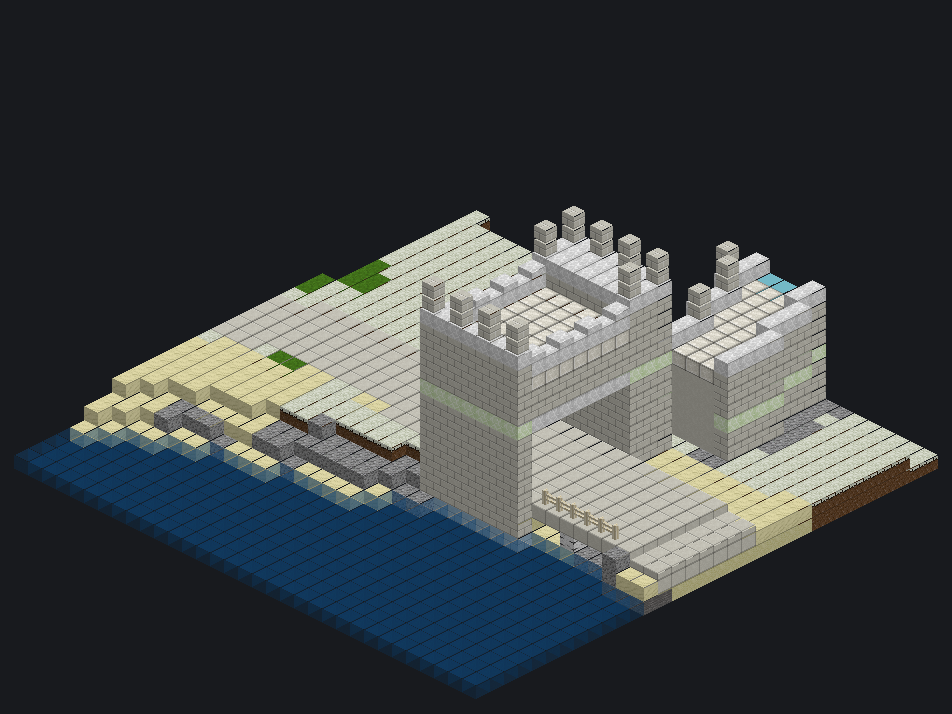
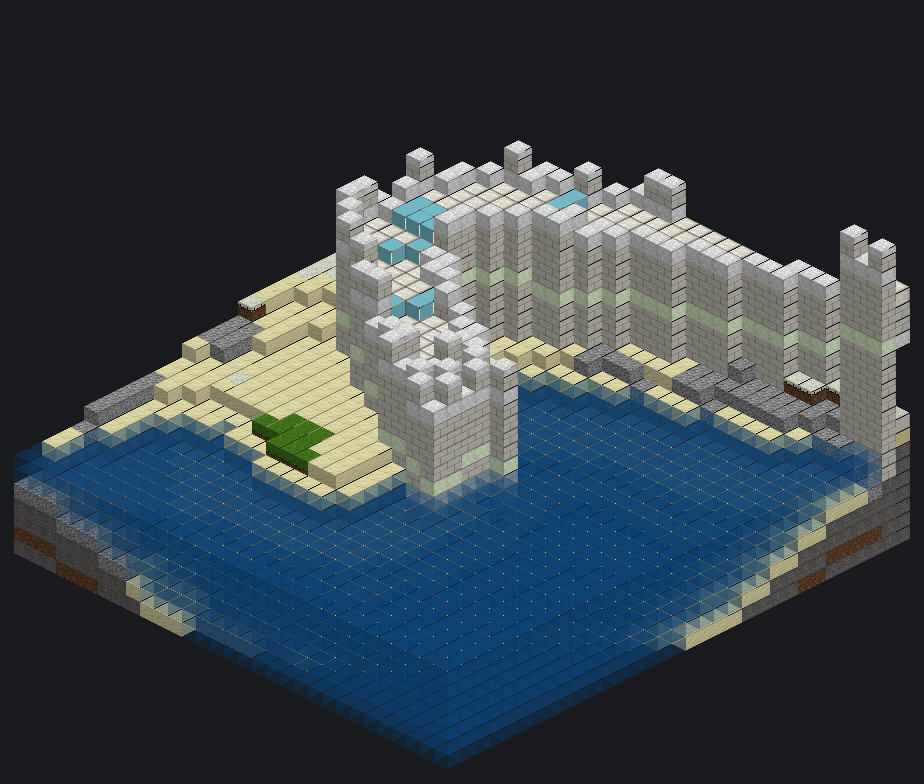
docs: capital walls playtest fix (continuous walls at the civic lakes, low elf crown): receipt, design wording, renders

diff --git a/docs/research/round23-capital-walls.md b/docs/research/round23-capital-walls.md
@@ -7,6 +7,10 @@ towns, villages and POIs are untouched. Design result:
 capitals, the lake capital, the palisade), [world_zones.md](../design/world_zones.md)
 §12 and [world.md](../design/world.md).
 
+The [playtest fix](#playtest-fix-continuous-walls-at-the-civic-lakes-low-elf-crown)
+at the end supersedes the lake termination of the follow-up and Lethariel's
+colonnettes described in the earlier sections.
+
 ## What changed
 
 | Capital | Change |
@@ -15,7 +19,7 @@ capitals, the lake capital, the palisade), [world_zones.md](../design/world_zone
 | Dur Brannoc | Precinct parapet three courses instead of two; the capped merlon every fourth column moves up one (y 4 stone, y 5 cap). |
 | Gor Drazhak | Precinct bank three courses (two of dug earth, the beaten crest at y 3) with the stake and point every other column at y 4–5. |
 | Nhal Veyr | Bar course closed (below). Height unchanged. |
-| Lethariel | Outer edge: the stone curtain model in a light elf style (below), with gatehouses and turrets. Core: the silverwood hedge becomes a one-node light wall — silver sandstone brick y 1–2, marble coping y 3 (the height of the pale gatehouses' marble band), a colonnette (pale castle pillar, base y 4 and top y 5) on every other column; the mere still replaces the boundary where it reaches the ring. |
+| Lethariel | Outer edge: the stone curtain model in a light elf style (below), with gatehouses and turrets. Core: the silverwood hedge becomes a one-node light wall — silver sandstone brick y 1–2, marble coping y 3 (the height of the pale gatehouses' marble band), a colonnette (pale castle pillar, base y 4 and top y 5) on every other column (since the playtest fix a brick at y 4 under a marble slab at y 5); the mere still replaces the boundary where it reaches the ring. |
 | Kezamba | Outer edge: the orc palisade model in the troll core palisade's materials (below), with the palisade's own gate passages. Core unchanged (byte-identical blueprint). |
 
 All six core blueprints keep their bounds (y −2..31); outside the ring
@@ -28,7 +32,8 @@ columns not one cell changed (cell diff before/after, all six cores).
   `default:silver_sandstone`, walk `darkage_marble_tile` with its slab, a green
   `darkage_serpentine` string course three under the walk, a marble coping on
   every parapet and tower top, colonnettes (`castle_pillar_silver_sandstone_brick`
-  `_bottom` + `_top`) in place of every merlon, a marble lintel over each gate
+  `_bottom` + `_top`) in place of every merlon (since the playtest fix: one
+  brick under a marble slab), a marble lintel over each gate
   passage and a serpentine band round the gate towers at lintel height, marble
   slab caps on the passage parapet, an `emberglass_lamp` on the deck of every
   turret. Slim footprint: wall 5 wide, walk 6 above ground (7 elsewhere),
@@ -208,3 +213,174 @@ the race's style. Branch `wp13-capital-walls-shore` off main `f5a545bd`.
 - Remaining wet points on these two edges (small non-lake waters: Lethariel
   7 + 8, Kezamba 4 points) keep the ordinary arcade or deck with the default
   clearance, like every other capital.
+
+## Playtest fix: continuous walls at the civic lakes, low elf crown
+
+2026-09-28, after the user's playtest on a fresh world (current main). Branch
+`wp13-capital-walls-lake-fix` off main `f712cd5d`. This section supersedes
+the lake termination of the follow-up above and the Lethariel colonnettes.
+
+### Findings and cause
+
+1. **A lone wall piece with a turret at Lethariel**, on dry city ground near
+   the lake, between the east gatehouse and the lake. Cause: the follow-up's
+   `SHORE_KEEP` margin. East of the core the outline does not cross the lake
+   once: it crosses it, runs about 50 nodes along a land tongue 1 to 7 nodes
+   from the water (seed 4242: points 367–391, shore distance 0.9–6.1, the lake
+   2–14 nodes outside it), and crosses again. Every point within 6 nodes of
+   the water lost its wall, and `SHORE_MIN_RUN` stripped dry runs under 12
+   points. Where the tongue lies a little further from the water for 12
+   points or more, as on the playtest world, that run kept its wall and got a
+   shore-end turret at both ends: a lone piece on the tongue. On seed 4242
+   two points reach 6.1 and were swallowed by the 12-point rule. Synthetic
+   outline variants (below) show the same fragment in 57 of 119 Lethariel
+   outlines and 22 of 119 Kezamba ones.
+   **Kezamba had a worse form of the same margin on seed 4242.** North of the
+   cenote the outline runs about 100 nodes along the shore (points 425–474,
+   distance 2–10), with the cenote inside and open land outside. The margin
+   and the 12-point rule stripped all of it, so the city was open over land
+   there. The only turret was an end tower on the south-gate side.
+2. **The beach between the water and a wall end or gatehouse** was the same
+   6-node margin.
+3. **The elf crown**: the pillar colonnettes (two nodes over the coping) read
+   too tall, on the towers most of all.
+
+### Fix
+
+- **Planner** (`capital_planner.lua` `M.shore_flags`, pure, unit-testable):
+  only points on the water are lake. The wall runs on land up to the water,
+  over the first 1 to `SHORE_INTO` 3 water points of each crossing, and ends
+  there. Past the first point it runs on only while the points lie within
+  `SHORE_DEEP` 3 nodes of the shore. Beside a gate the depth rule applies
+  from the first point, so a gatehouse standing in the water (D70) is its
+  own end. A dry stretch **between two crossings** carries no wall in two
+  cases: it is shorter than `SHORE_MIN_RUN` 12 points, or the land outside
+  it is closed by the lake. The second is a 4-connected fill over the dry
+  columns outside the outline, started within 3 of the stretch, that never
+  leaves the stretch's box grown by `SHORE_REACH` 32. Such land can be
+  reached only over the water or through the city. Every other dry point is
+  walled, including every stretch between a crossing and a gate. Walled
+  points within `SHORE_KEEP` 6 of the water, the water points included, get
+  the new payload flag `f` (footing). No turret stands within 6 points of the
+  water, and the end turrets are gone.
+- **Writer** (`city_edge.lua`): an `f` segment is solid down to the bed,
+  never an arcade. Stone uses face and core masonry; the palisade uses stakes
+  under the whole rampart where the column is in water. The wall ends in a
+  **head** of 1.5 nodes on either side of its last point, reaching 1.5 nodes
+  on toward the lake. Stone: a parapet across the walk, with coping and a
+  merlon on every other column. Palisade: the stockade with its turned
+  points. Lethariel merlons (curtain, turrets, gate towers) are now the plain
+  merlon: one silver sandstone brick under a `darkage_marble_slab`, 1.5
+  nodes over the coping instead of the two-node colonnette.
+- **Core** (`lethariel.lua`): the light wall's merlon is the same brick at
+  y 4 under a marble slab at y 5 (height and bounds unchanged).
+- The overlay y range is unchanged. The footings reach the bed of shallow
+  water only, far inside the existing 24 below the lowest walk, and the probe
+  now also checks the bottom.
+
+### Style choices made by feel
+
+- The **head** is a closed parapet in the water, not a tower. An end turret
+  (radius 3) centred on the last point would have stood 5–6 nodes into the
+  lake. Beside a gatehouse on the shore, the gatehouse and a short head read
+  as one piece.
+- **Elf crown**: the user's first example, a one-node brick merlon capped
+  with a marble slab, above the continuous marble coping. It keeps the
+  marble-on-every-top idea at 1.5 nodes. The gate passage parapet keeps its
+  marble slab caps on the coping.
+- `SHORE_DEEP` 3 over 2: the wall's centre line ends about 3.2–3.6 nodes
+  into the water on seed 4242, so a swimmer must leave the shallows to pass.
+
+### Evidence
+
+- **Probe** (`tools/wp13/capital_walls_probe.lua`, LuaJIT, extended): part 1
+  checks the Lethariel core crown. Part 2 checks, on every lake end: 1–3
+  walled water points (none only beside a gate), each with a footing, a
+  closed head, and solid masonry or stakes from the ground to the walk in the
+  middle of every walled water segment. It also checks: every dry lake point
+  lies between two crossings, never between a crossing and a gate (no dry
+  margin); no isolated wall run between two lake stretches unless it has 12+
+  dry points and its outside land escapes (an independent even-odd fill,
+  reach 48); no edge cell deeper than `SHORE_DEEP` + half + 2; no turret near
+  the water; every cell inside the overlay's y range; no pillar in
+  Lethariel's crown; and every marble slab either capping one brick over the
+  coping or on the passage parapet's coping. New `--baseline-layouts` and
+  `--baseline-edge` options compare against the previous version. Results:
+  - Final seed-4242 layouts: **PASS**. Lethariel: 170 lake points (was 201),
+    one crossing (the tongue merged into it), 4 walled water points (east 1,
+    south 3), deepest edge cell 4.0 nodes into the water, 699 marble merlon
+    caps, 0 pillars, 18 lamps for 18 turrets. Kezamba: 81 lake points (was
+    141), 5 walled water points (east 2, north 3), deepest cell 5.6 (an
+    outer stake of an oblique crossing), 0 isolated runs.
+  - Baseline (engine layouts of main `28a9a2a3` = `f712cd5d` for mapgen and
+    main's `city_edge.lua`): Highcourt, Dur Brannoc, Gor Drazhak and Nhal
+    Veyr have byte-identical layout texts and identical edge cells and names
+    (100 175 / 105 084 / 50 571 / 100 972 cells). For Lethariel and Kezamba
+    only the `w` flags and `t` differ: every other line is byte-identical,
+    and so are the wall points, walks, gate and water flags. The water and
+    road sections of the whole layouts file are byte-identical.
+  - The same probe **fails** on main's layouts (dry lake points between a
+    crossing and a gate, and Kezamba's end tower within 6 points of the
+    lake). It also fails on a mutant with the tongue's wall restored (an
+    isolated 25-point run, lake ends not walled into the water).
+- **Synthetic outlines** (scratch sweep): 119 variants per lake capital, the
+  outline scaled 0.92–1.08 about the anchor and turned −6..6°, with gate
+  points kept by index. The old rule leaves an isolated fragment in 57
+  (Lethariel) and 22 (Kezamba). Under the new rule: every lake end keeps 1–3
+  water points except where a variant pushed a gate into the water; the
+  deepest walled water point is 3.0/3.3; the remaining walled runs between
+  two lake stretches (Lethariel 1, Kezamba 21) are all 12+ dry points with
+  open land outside, i.e. real land crossings. `shore_flags` costs about
+  1 ms per capital.
+- **Engine** (`tools/luanti_headless.sh`, seed 4242, `LC_ALL=C`, `chrt --idle
+  0 ionice -c3`, a disposable dump probe, normal shutdown by
+  `core.request_shutdown` after the dumps): two runs of about 42 s each.
+  Both PASS (listening, no ERROR), layouts built in 19.5 s, capital planning
+  6.1–6.2 s for all six as before. Run 1 layouts equal the portable
+  re-derivation of the flags byte for byte in the `w` lines. Run 2 (final
+  writer) layouts equal run 1's but for the source key and timings. Engine
+  dumps: the deepest edge column in the water is 3.7 / 4.0 nodes (Lethariel
+  east / south end) and 4.5 / 5.6 (Kezamba east / north end); no edge
+  material on the Lethariel tongue. `pgrep -f '^luanti.bin'` is empty
+  afterwards. No PUC (mapgen exemption).
+- `tools/check_lua.sh` passes on every changed Lua file (parser, sweeps 1–6,
+  no SETGLOBAL).
+
+Images (engine dumps unless noted, `render_blueprint.py`; it draws
+`darkage_marble_tile_slab` as flat colour):
+`lethariel-shore-east-gate` (the east gatehouse, the wall on to the water
+and its head), `lethariel-shore-south-gate` (the wall round the inner bay
+and its head in the lake), `kezamba-shore-gate` (the east gatehouse with the
+palisade run into the cenote), `kezamba-shore-north-end` (the new north-shore
+palisade ending in the cenote), `lethariel-edge-gate` and
+`lethariel-edge-turret` (the low crown), `lethariel-core-wall` (the core's
+low crown, blueprint render). `kezamba-shore-end-tower` is removed.
+
+### Runtime test plan (fresh world)
+
+1. Lethariel, from the core looking over the crown lake toward the east
+   gatehouse (the playtest viewpoint, about 1800, 100, -1500): no wall piece
+   on the shore between the east gatehouse and the lake. From the east
+   gatehouse the wall runs to the water and 2–3 nodes into it, closed by a
+   parapet. Try to walk round its end along the beach: you have to swim.
+2. The same at the other end (by the south gatehouse): the wall reaches into
+   the lake and is closed at its end; the lake is open beyond.
+3. Kezamba: at the east gatehouse the palisade runs from the gate tower into
+   the cenote with no beach gap. On the north shore the palisade is closed
+   along the whole shore and ends in the cenote, with no gap to the land
+   outside.
+4. Lethariel crown: curtain, turrets and gate towers carry low brick merlons
+   with marble slab caps, with no tall pillars. The core's light wall has the
+   same crown. Turret lamps still stand at night.
+5. The other four capitals look exactly as before.
+
+### Open risks (Low)
+
+- On other seeds a wall run can stand between two lake crossings where it
+  closes real open land (12+ dry points whose outside reaches beyond the
+  lake); it then ends in a head at both ends. That is the rule's intent, but
+  it is a separate piece in the lake.
+- A pocket of land outside the outline that the lake closes but that is
+  more than 32 nodes deep reads as open and is walled.
+- Heads and footings are checked on synthetic ground and four engine dumps;
+  the renders cannot show the slab caps' real shape.

diff --git a/docs/design/settlements.md b/docs/design/settlements.md
@@ -192,7 +192,7 @@ same rule are:
 | Dur Brannoc | Three-course masonry parapet with a capped merlon every fourth column; the four closed corner drums replace its corner columns. |
 | Gor Drazhak | Three-course earth bank (two of dug earth, a beaten crest) with an acacia stake and point every other column; closed timber corner towers replace its corner columns. |
 | Nhal Veyr | Two-course dungeon-stone parapet with a capped merlon every fourth column and flat iron bars filling the three columns between two merlons; the four closed corner drums replace its corner columns. |
-| Lethariel | Light wall on every dry edge: two courses of silver sandstone brick, a marble coping at the height of the pale gatehouses' marble band, and a colonnette (the pale castle pillar, base and top) on every other column; the authored mere is the boundary where it reaches the north edge. |
+| Lethariel | Light wall on every dry edge: two courses of silver sandstone brick, a marble coping at the height of the pale gatehouses' marble band, and a low merlon (one brick under a marble slab) on every other column; the authored mere is the boundary where it reaches the north edge. |
 | Kezamba | Three-course junglewood palisade on every dry edge; the authored cenote is the boundary where it reaches the north-east edge. |
 
 **Streets are roads.** Since Round 22 every capital street, lane and connector
@@ -271,10 +271,18 @@ its walk rises and falls at most half a node per node (a slab on each half
 step), so it can be walked. Where the outline crosses a river the wall is an
 arcade: the walk on an arch, piers down to the bed, the river passing below.
 However long the crossing, the walk stays out of the water. A capital's
-**civic lake is its edge** (user ruling 2026-09-28): where Lethariel's crown
-lake or Kezamba's cenote reaches the outline, no wall stands on it or within
-six nodes of its water, and each end of the wall is closed on dry ground by a
-turret in the race's style (or by a gatehouse where a gate is the end). The wall carries no
+**civic lake is its edge** (user rulings 2026-09-28, the second after a
+playtest): where the outline crosses Lethariel's crown lake or Kezamba's
+cenote, the wall is continuous on land up to the water and runs on over the
+first one to three water points of the crossing (points after the first only
+within three nodes of the shore), on a solid footing down to the bed in the
+race's masonry or stakes, and ends there in a closed head reaching a node and
+a half past its last point -- a parapet across the walk, or the stockade --
+so no beach is left to walk round its end; beyond that the lake is open. A gatehouse beside the water is followed by the same short run into
+it. A stretch of shore between two crossings carries no wall when it is short
+(under 12 points, about 24 nodes) or when the land outside it is closed off by
+the lake; any other dry stretch is walled. No turret stands within six points
+of the open water. The wall carries no
 NPCs of its own; a capital's garrison is the four gatehouses of its civic
 core.
 
@@ -308,13 +316,14 @@ capital, Lethariel, which was open until Round 23 (a planted belt with a
 threshold at each gate point). Since the Round 23 ruling of 2026-09-28 its
 edge is the **stone curtain in the elves' own light style**: pale silver
 sandstone brick over a silver sandstone core, a green serpentine string
-course, a marble coping on every parapet, slender colonnettes of the pale
-castle pillar in place of merlons, a marble-tiled walk, slim turrets about
+course, a marble coping on every parapet, low merlons of one brick under a
+marble slab (the playtest's ruling: the first version's pillar colonnettes
+stood too tall), a marble-tiled walk, slim turrets about
 every 48 nodes each carrying an emberglass lamp, and gatehouses with a marble
 lintel over the passage. It stands on the footprint the belt was planned with
 (wall half 2, gate boxes 3 by 5), so the city inside is laid out exactly as
-before, and where the crown lake reaches the outline it ends on both shores,
-closed by a gatehouse or a closed end turret.
+before, and where the crown lake crosses the outline the wall runs a few
+nodes into the water on both sides and ends there in a closed head.
 
 Lethariel also shows what happens when the map does not give a capital four
 usable quarters. Its crown lake reaches into the civic core itself, so the

diff --git a/docs/planning/round23-world-life-plan.md b/docs/planning/round23-world-life-plan.md
@@ -136,7 +136,10 @@ of world scans. Needing more means asking the user first. Engine runs use
 
 Delivered 2026-09-28: [completion](../research/round23-completion.md). Later
 user rulings: the seabed is part of the prepared bottom envelope; Lethariel
-and Kezamba walls end at the civic lake shores.
+and Kezamba walls end at the civic lake shores. After the playtest (same day)
+the walls are continuous on land and run 2–3 nodes into the lake to a closed
+head (no dry margin, no lone pieces), and Lethariel's crown is lower
+([receipt](../research/round23-capital-walls.md#playtest-fix-continuous-walls-at-the-civic-lakes-low-elf-crown)).
 
 ## Phase 2 — vegetation and altitude (rulings 2026-09-28)
 

diff --git a/docs/design/world_zones.md b/docs/design/world_zones.md
@@ -1346,7 +1346,8 @@ one-cell settlement checks are unchanged.
     their former planted belts were planned with. Walls follow the outline as
     polylines, their walk walkable on half steps, and cross rivers as arcades
     or timber decks with the walk out of the water; a capital's civic lake is
-    its edge, and the wall ends on its shores in a turret;
+    its edge where it crosses the outline, the wall continuous on land and
+    ending a few nodes into the water in a closed head;
   - Highcourt's one-level quay canal beside its outer ring lane (D58), sealed
     off natural water.
   The layout is a pure function of the seed and the code, so every boot of a
